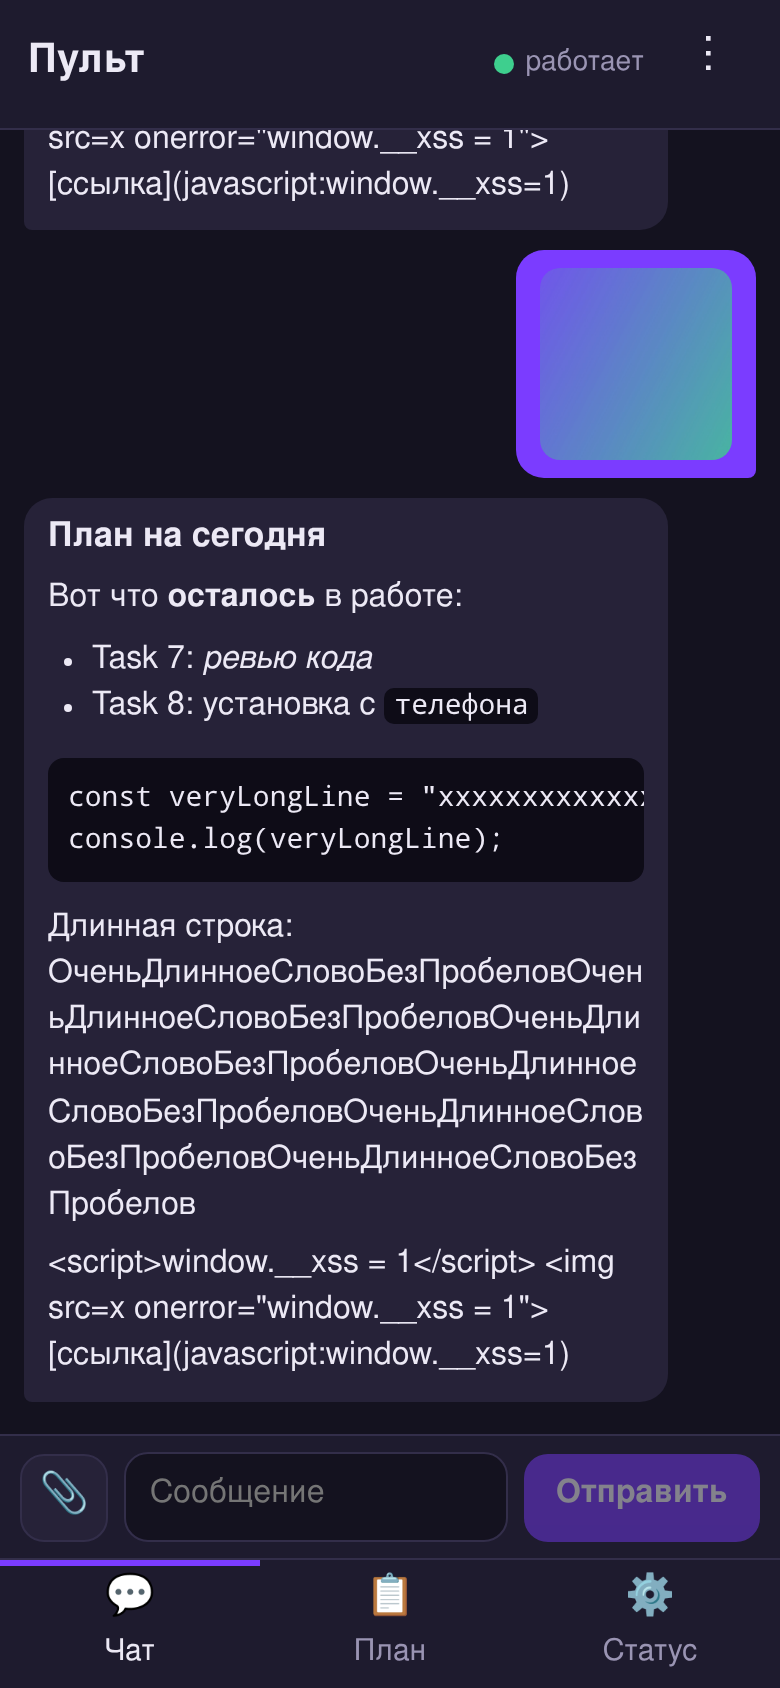
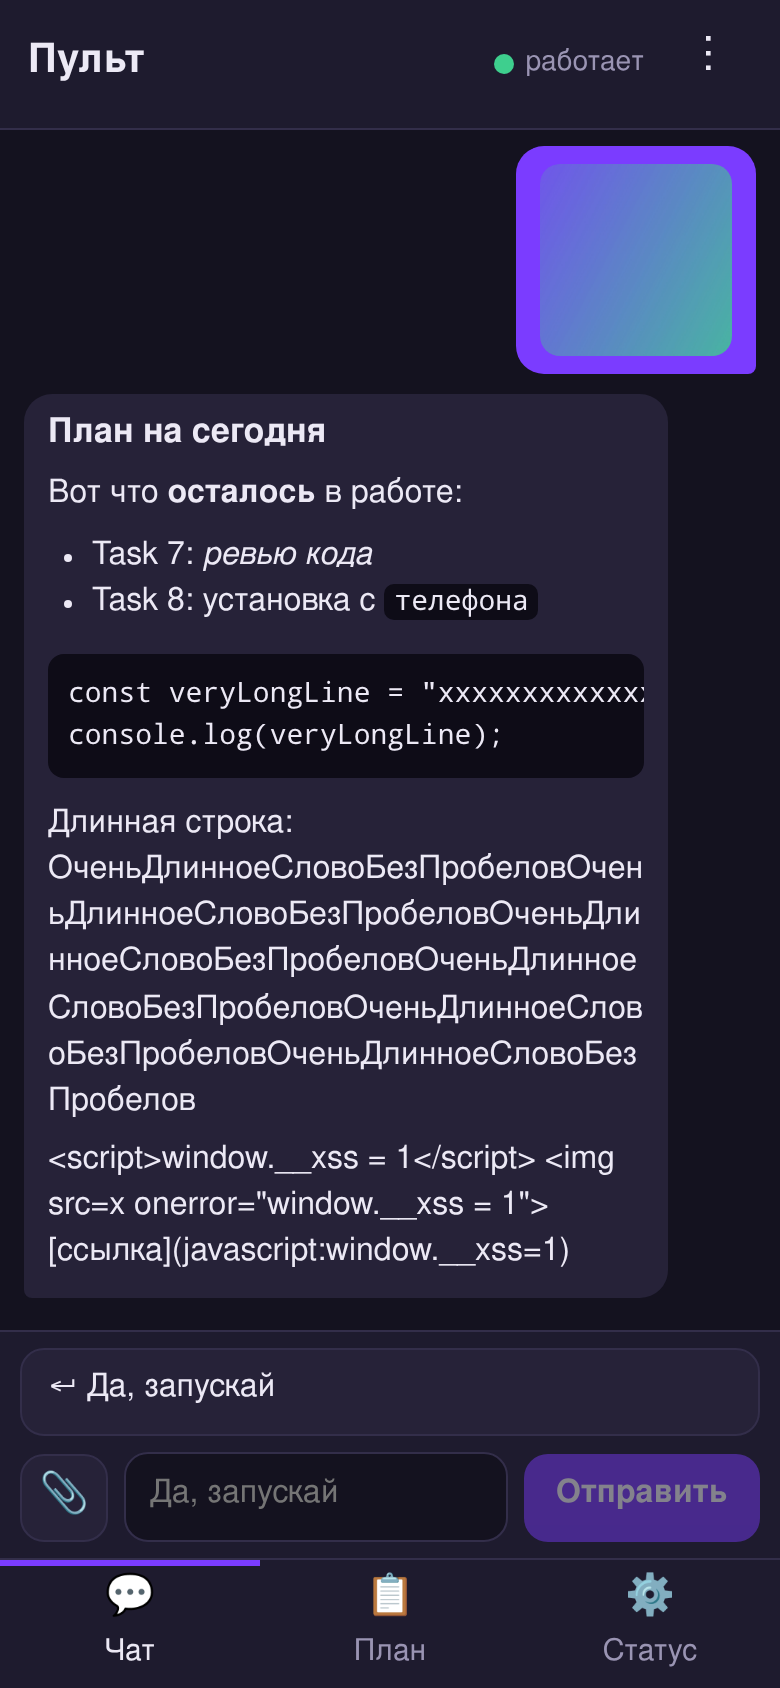
feat(web): suggested reply

diff --git a/web/index.html b/web/index.html
@@ -98,6 +98,9 @@
   .mentions button:active, .mentions button.on { background: var(--line); }
   .mentions small { color: var(--muted); margin-left: 8px; }
   .mention { color: var(--accent2); font-weight: 600; }
+  .suggest { flex-basis: 100%; min-width: 0; min-height: 44px; padding: 0 12px; border-radius: 12px; border: 1px solid var(--line);
+    background: var(--panel2); color: var(--text); font: inherit; text-align: left; overflow: hidden; text-overflow: ellipsis; white-space: nowrap; }
+  .suggest:active { background: var(--line); }
   .msg.user .mention { color: #fff; background: #ffffff2e; border-radius: 5px; padding: 0 3px; }
 
   .menu { position: absolute; right: 10px; top: 58px; z-index: 10; background: var(--panel2); border: 1px solid var(--line);
@@ -166,6 +169,7 @@
     <form class="composer" id="composer">
       <div class="mentions hidden" id="mentions"></div>
       <div class="pending hidden" id="pending"></div>
+      <button class="suggest hidden" id="suggest-btn" type="button"></button>
       <label class="attach" aria-label="Прикрепить картинку">📎<input type="file" id="file-input" accept="image/*" multiple></label>
       <textarea id="input" rows="1" placeholder="Сообщение" maxlength="20000"></textarea>
       <button class="btn" id="send-btn" type="submit">Отправить</button>
@@ -204,7 +208,7 @@
 </nav>
 
 <script type="module">
-import { renderMarkdown } from './markdown.mjs';
+import { renderMarkdown, splitSuggestion } from './markdown.mjs';
 
 // All requests are relative: Caddy serves the panel under /pult/.
 const $ = id => document.getElementById(id);
@@ -270,7 +274,7 @@ const toBottom = () => { scroller.scrollTop = scroller.scrollHeight; };
 function bubble(role, text, at, images) {
   const n = el('div', `msg ${role}`);
   if (at) n.dataset.at = at;
-  if (role === 'assistant') { n.classList.add('md'); n.innerHTML = renderMarkdown(text); }
+  if (role === 'assistant') { n.classList.add('md'); n.innerHTML = renderMarkdown(splitSuggestion(text).body); }
   else if (role === 'user') {
     if (images?.length) n.append(imageLinks(images));
     n.append(...withMentions(text));
@@ -316,6 +320,8 @@ function renderHistory(entries) {
   if (!entries.length) msgs.append(el('div', 'empty', 'Спросите планировщика о проектах и планах. Он может читать и менять планы автопилота.'));
   for (const e of entries) msgs.append(bubble(e.role, e.text, e.at, e.images));
   streamBubble = null;
+  const last = entries.at(-1);
+  setSuggestion(last?.role === 'assistant' ? splitSuggestion(last.text).suggestion : null);
 }
 
 function setBusy(on) {
@@ -324,7 +330,27 @@ function setBusy(on) {
   $('stop-btn').classList.toggle('hidden', !on);
   $('typing').classList.toggle('on', on && !streamText);
   if (!on && streamBubble) { streamBubble.remove(); streamBubble = null; }
+  updateSuggestion();
 }
+
+// The planner's likely next message: the field's placeholder and a one-tap button above it.
+// Only for the last answer; hidden while it streams and once the user starts typing.
+let suggestion = null;
+function setSuggestion(text) {
+  suggestion = text;
+  updateSuggestion();
+}
+function updateSuggestion() {
+  const show = Boolean(suggestion && !busy);
+  $('input').placeholder = show ? suggestion : 'Сообщение';
+  $('suggest-btn').textContent = show ? `↵ ${suggestion}` : '';
+  $('suggest-btn').classList.toggle('hidden', !show || Boolean($('input').value));
+}
+$('suggest-btn').addEventListener('click', () => {
+  if (!suggestion || busy) return;
+  $('input').value = suggestion;
+  $('composer').requestSubmit();
+});
 
 function paintStream() {
   renderQueued = false;
@@ -336,7 +362,9 @@ function paintStream() {
     streamBubble.classList.add('streaming');
     msgs.append(streamBubble);
   }
-  streamBubble.innerHTML = renderMarkdown(streamText);
+  // Hide the service line while it is still arriving: any unfinished `<!--` tail.
+  const shown = splitSuggestion(streamText).body.replace(/(^|\n)[ \t]*<!--[^\n]*$/, '');
+  streamBubble.innerHTML = renderMarkdown(shown);
   $('typing').classList.toggle('on', !streamText);
   if (stick) toBottom();
 }
@@ -406,6 +434,7 @@ function updateSend() {
   pendingBox.classList.toggle('hidden', !attachments.length);
 }
 input.addEventListener('input', updateSend);
+input.addEventListener('input', updateSuggestion);
 
 // Phone photos weigh megabytes: shrink to MAX_SIDE on the long side, JPEG 0.85.
 async function shrink(file) {
@@ -527,6 +556,7 @@ $('composer').addEventListener('submit', async ev => {
     await api('api/chat', images.length ? { text, images } : { text });
     input.value = '';
     autosize();
+    setSuggestion(null);
     for (const a of [...attachments]) removeAttachment(a);
     msgs.querySelector('.empty')?.remove();
     // The SSE 'busy' event may have already reloaded history with this very message.

diff --git a/docs/plans/2026-10-21-pult-v2.progress.md b/docs/plans/2026-10-21-pult-v2.progress.md
@@ -32,3 +32,7 @@
   - Ruling: тело больше 8 МБ дочитывается до конца (без сохранения), затем 413 — чтобы телефон получил ответ, а не обрыв соединения — цена ошибки: лишний трафик на слишком большой файл (страница и так сжимает до ~2000 px).
   - Ruling: «Новый разговор» удаляет и пересоздаёт пустую папку uploads; GIF тоже пережимается в JPEG (анимация теряется), как требует шаг 4 — цена ошибки: анимированные GIF приходят первым кадром.
   - Ruling: scripts/web-screenshots.mjs (нет в Files задачи) дополнен сценарием картинок: PNG 3000×1600 ×2 → две миниатюры, ✕ убирает одну, «Отправить» активна без текста, в истории ссылка uploads/<uuid>.jpg target=_blank, файл 2000 px по длинной стороне; плейсхолдер поля сокращён до «Сообщение» (с 📎 переносился); прогон OK, добавлены web-chat-image-pending.png, web-chat-image-sent.png.
+- 2026-10-21 20:50 Task 8: сделано — web/markdown.mjs splitSuggestion (последняя строка `<!-- suggest: … -->`, ≤ 200 символов, иначе null и текст без изменений); страница рендерит ответы без служебной строки, во время потока прячет незаконченный хвост `<!--`, подсказка последнего ответа — placeholder поля и кнопка «↵ …» (скрыта при наборе, во время ответа и после своего сообщения, тап отправляет); правило в planner-prompt.md; 6 новых тестов, npm test 193/193
+  - Ruling: подсказка длиннее 200 символов → null, текст ответа не трогается (строка остаётся в body и видна как HTML-комментарий-текст) — цена ошибки: редкий видимый служебный текст при слишком длинной подсказке.
+  - Ruling: кнопка снова появляется, если поле очищено (скрывается при непустом поле, а не навсегда после первого символа) — цена ошибки: подсказка возвращается после стирания набранного.
+  - Ruling: scripts/web-screenshots.mjs (нет в Files задачи) дополнен: ответ кончается строкой подсказки → в чате и в потоке (MutationObserver) нет «<!--»/«suggest», кнопка «↵ Да, запускай» и placeholder, набор скрывает кнопку, тап отправляет «Да, запускай»; прогон OK, добавлен web-chat-suggest.png. Скрытие незаконченного хвоста в потоке проверено вызовом того же выражения в node (поддельный Claude шлёт части целыми сообщениями, разрыв строки в браузере не воспроизвести).

diff --git a/docs/plans/2026-10-21-pult-v2.md b/docs/plans/2026-10-21-pult-v2.md
@@ -146,10 +146,10 @@
 
 **Interfaces — Produces:** `splitSuggestion(text) -> { body, suggestion: string | null }` в `web/markdown.mjs`: последняя непустая строка вида `<!-- suggest: … -->` (текст ≤ 200 символов) вырезается; иначе `suggestion: null`, `body === text`. Во время потока страница скрывает незаконченный хвост, начинающийся с `<!--`.
 
-- [ ] **Step 1:** Тесты: строка в конце → вырезана, подсказка без пробелов по краям; строка в середине → не трогается; без строки → `null`; пустая подсказка → `null`; `<!-- suggest: <b>x</b> -->` → подсказка как текст (на странице через `textContent`).
-- [ ] **Step 2:** `npm test` → FAIL; **Step 3:** реализовать.
-- [ ] **Step 4:** Страница: ответы рендерятся из `body`; подсказка последнего ответа — `placeholder` поля и кнопка `↵ <подсказка>` над полем; тап отправляет её как сообщение; начал печатать или отправил своё — кнопка скрыта. `planner-prompt.md`: «Заканчивай каждый ответ последней строкой `<!-- suggest: <самый вероятный короткий ответ пользователя> -->`; если ответа не ждёшь — не пиши её».
-- [ ] **Step 5:** `npm test` → PASS. **Commit** — `feat(web): suggested reply`
+- [x] **Step 1:** Тесты: строка в конце → вырезана, подсказка без пробелов по краям; строка в середине → не трогается; без строки → `null`; пустая подсказка → `null`; `<!-- suggest: <b>x</b> -->` → подсказка как текст (на странице через `textContent`).
+- [x] **Step 2:** `npm test` → FAIL; **Step 3:** реализовать.
+- [x] **Step 4:** Страница: ответы рендерятся из `body`; подсказка последнего ответа — `placeholder` поля и кнопка `↵ <подсказка>` над полем; тап отправляет её как сообщение; начал печатать или отправил своё — кнопка скрыта. `planner-prompt.md`: «Заканчивай каждый ответ последней строкой `<!-- suggest: <самый вероятный короткий ответ пользователя> -->`; если ответа не ждёшь — не пиши её».
+- [x] **Step 5:** `npm test` → PASS. **Commit** — `feat(web): suggested reply`
 
 ### Task 9: Лимиты Claude
 

diff --git a/web/planner-prompt.md b/web/planner-prompt.md
@@ -7,3 +7,4 @@
 - Изменения плана коммить в репозиторий проекта.
 - Новый план для автопилота всегда заканчивается задачами: проверка результата, ревью свежим ревьюером и финальный артефакт.
 - Сам код проектов не пиши — это работа автопилота, если только пользователь прямо об этом не попросил.
+- Заканчивай каждый ответ последней строкой `<!-- suggest: <самый вероятный короткий ответ пользователя> -->`; если ответа не ждёшь — не пиши её. Пульт прячет эту строку и предлагает её текст кнопкой.
